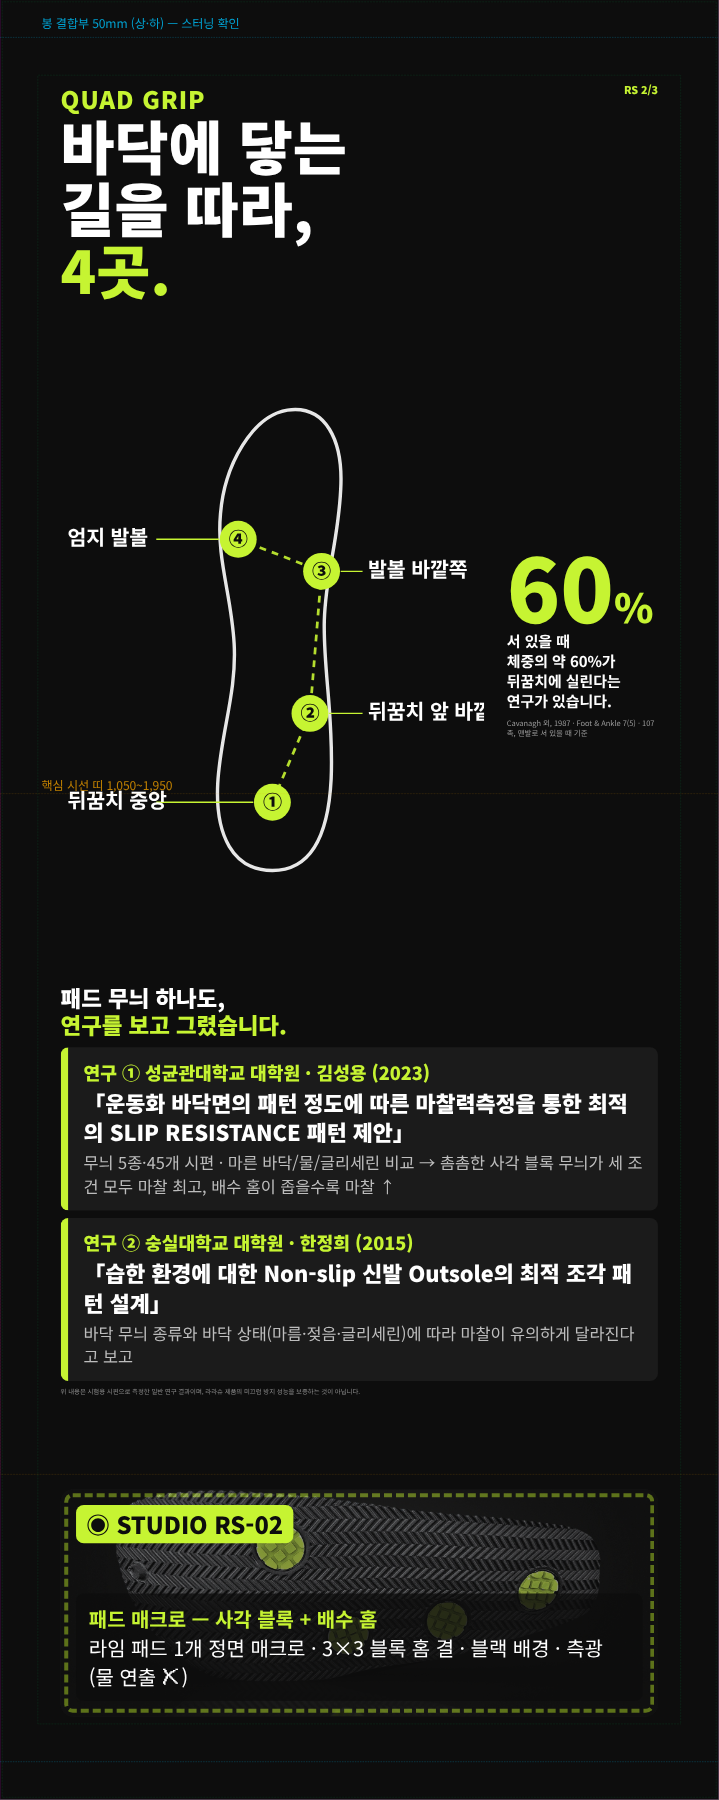
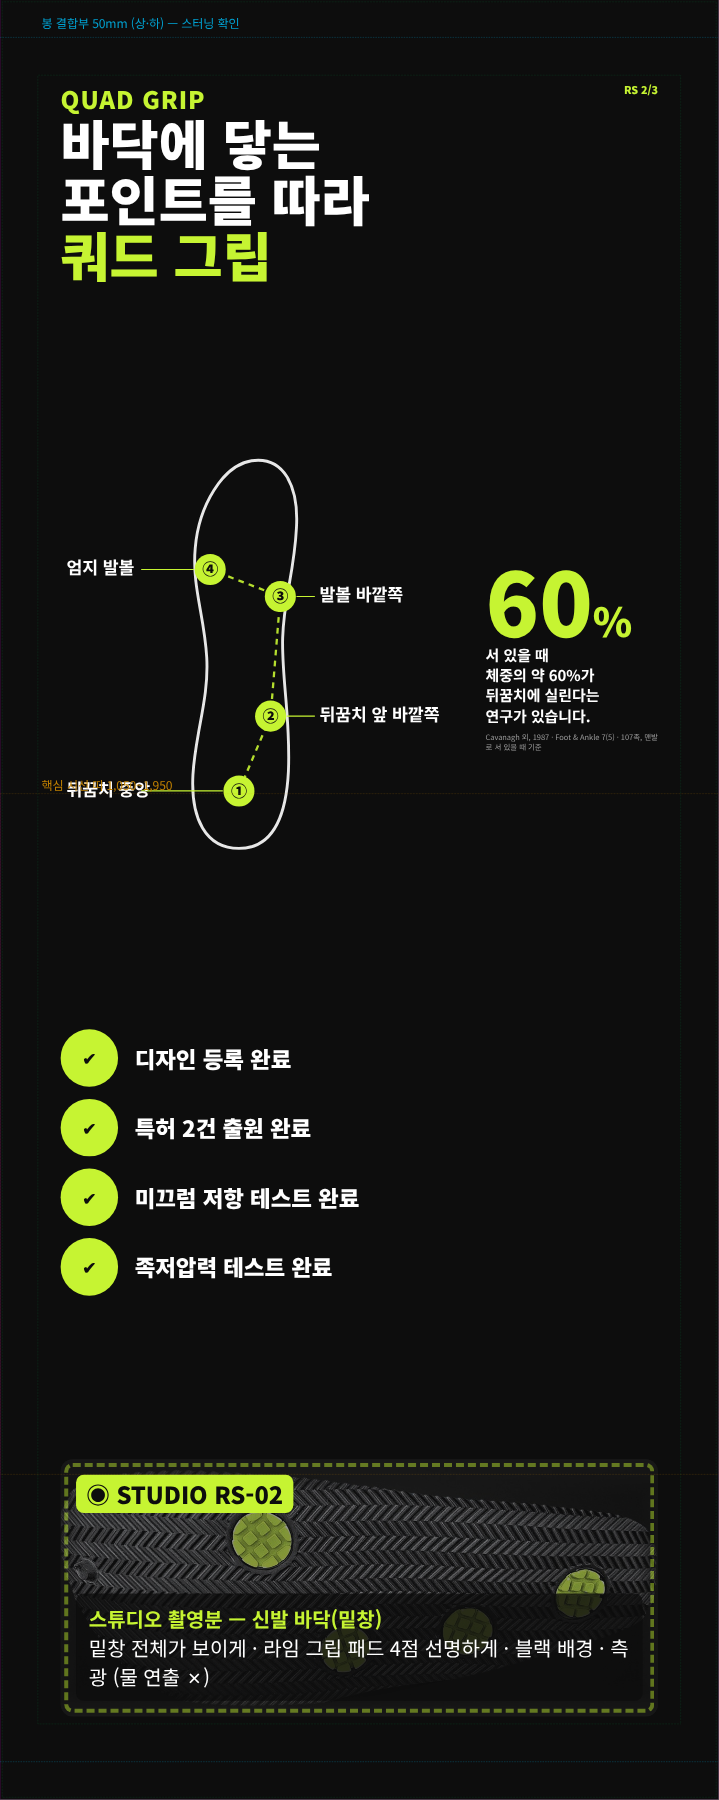
족자 RS2: 헤드라인·인증 체크리스트·밑창 촬영 안내, 발 배치도 라벨 잘림 수정
Claude-Session: https://claude.ai/code/session_01WbwBaiEPCZ7zKuMjGg7vqH

diff --git a/launch/rs/design/fair-print/build.py b/launch/rs/design/fair-print/build.py
@@ -599,8 +599,8 @@ def foot_map(wmm, acc=LIME, ink='#fff', labels=True, fs=1.0):
             lx = 290 if x > 150 else -150
             anc = 'start' if x > 150 else 'start'
             lab += f'<line x1="{x+(28 if x>150 else -28)}" y1="{y}" x2="{lx-8 if x>150 else lx+130}" y2="{y}" stroke="{acc}" stroke-width="2"/><text x="{lx}" y="{y+8}" font-size="30" font-weight="700" fill="{ink}" text-anchor="{anc}">{t}</text>'
-    vb = '-160 0 620 730' if labels else '40 0 240 730'
-    hmm = wmm * 730 / (620 if labels else 240)
+    vb = '-160 0 710 730' if labels else '40 0 240 730'
+    hmm = wmm * 730 / (710 if labels else 240)
     return f"""<svg viewBox="{vb}" style="width:{wmm}mm;height:{hmm}mm;flex:none;font-family:N"><path d="{sole}" fill="none" stroke="{ink}" stroke-width="5" opacity=".9"/>
       <path d="M{path}" fill="none" stroke="{acc}" stroke-width="4" stroke-dasharray="10 9" opacity=".9"/>{dots}{lab}</svg>"""
 
@@ -640,15 +640,13 @@ def banners_v4():
         {shot('RS-01', 790, 1000, 'walking-side-ref.jpg', '스튜디오 촬영분 — 모델 착용 · 신발 측면', '모델이 워킹화를 신고 선 모습 · 신발 측면(발목~밑창 라인)이 잘 보이게 · 블랙 바지 · 주방/매장 바닥 톤 (물기 연출 ✗)', fs=F)}
         <div style="display:flex;justify-content:space-between;align-items:flex-end"><div style="font-size:70pt;font-weight:900;color:#fff">쿼드그립<br>워킹화 · 아치가득 인솔</div><div style="font-size:50pt;font-weight:900;color:{LIME};text-align:right">인솔 11.11<br>워킹화 11.20 OPEN</div></div>""", 'RS 1/3', LIME)
     rs2 = pg(INK, f"""<div><div style="font-size:90pt;font-weight:900;color:{LIME};letter-spacing:.04em">QUAD GRIP</div>
-          <div style="font-size:220pt;font-weight:900;line-height:1.05;color:#fff">바닥에 닿는<br>길을 따라,<br><span style="color:{LIME}">4곳.</span></div></div>
-        <div style="display:flex;align-items:center;gap:30mm">{foot_map(560, fs=F)}
+          <div style="font-size:200pt;font-weight:900;line-height:1.05;color:#fff">바닥에 닿는<br>포인트를 따라<br><span style="color:{LIME}">쿼드 그립</span></div></div>
+        <div style="display:flex;align-items:center;gap:22mm">{foot_map(540, fs=F)}
           <div style="flex:1"><div style="font-size:330pt;font-weight:900;line-height:.9;color:{LIME}">60<span style="font-size:150pt">%</span></div>
           <div style="font-size:56pt;font-weight:700;color:#fff;line-height:1.35;margin-top:8mm">서 있을 때<br>체중의 약 60%가<br>뒤꿈치에 실린다는<br>연구가 있습니다.</div>
           <div style="font-size:28pt;color:#9a9a9a;margin-top:8mm;line-height:1.4">{CAV_NOTE}</div></div></div>
-        <div><div style="font-size:84pt;font-weight:900;color:#fff;line-height:1.2;margin-bottom:12mm">패드 무늬 하나도,<br><span style="color:{LIME}">연구를 보고 그렸습니다.</span></div>
-          <div style="display:flex;flex-direction:column;gap:10mm">{paper_cards(F, LIME)}</div>
-          <div style="font-size:24pt;color:#8a8a8a;margin-top:8mm;line-height:1.4">{PAPER_NOTE}</div></div>
-        {shot('RS-02', 790, 300, 'outsole-studio.jpg', '패드 매크로 — 사각 블록 + 배수 홈', '라임 패드 1개 정면 매크로 · 3×3 블록 홈 결 · 블랙 배경 · 측광 (물 연출 ✗)', fs=F)}""", 'RS 2/3', LIME)
+        <div style="display:flex;flex-direction:column;gap:16mm"><div style="display:flex;align-items:center;gap:22mm"><div style="width:76mm;height:76mm;border-radius:50%;background:{LIME};display:grid;place-items:center;font-size:64pt;font-weight:900;color:{INK};flex:none">✔</div><div style="font-size:84pt;font-weight:900;color:#fff">디자인 등록 완료</div></div><div style="display:flex;align-items:center;gap:22mm"><div style="width:76mm;height:76mm;border-radius:50%;background:{LIME};display:grid;place-items:center;font-size:64pt;font-weight:900;color:{INK};flex:none">✔</div><div style="font-size:84pt;font-weight:900;color:#fff">특허 2건 출원 완료</div></div><div style="display:flex;align-items:center;gap:22mm"><div style="width:76mm;height:76mm;border-radius:50%;background:{LIME};display:grid;place-items:center;font-size:64pt;font-weight:900;color:{INK};flex:none">✔</div><div style="font-size:84pt;font-weight:900;color:#fff">미끄럼 저항 테스트 완료</div></div><div style="display:flex;align-items:center;gap:22mm"><div style="width:76mm;height:76mm;border-radius:50%;background:{LIME};display:grid;place-items:center;font-size:64pt;font-weight:900;color:{INK};flex:none">✔</div><div style="font-size:84pt;font-weight:900;color:#fff">족저압력 테스트 완료</div></div></div>
+        {shot('RS-02', 790, 340, 'outsole-lime.jpg', '스튜디오 촬영분 — 신발 바닥(밑창)', '밑창 전체가 보이게 · 라임 그립 패드 4점 선명하게 · 블랙 배경 · 측광 (물 연출 ✗)', fs=F)}""", 'RS 2/3', LIME)
     rs3 = pg(LIME, f"""<div><div style="font-size:90pt;font-weight:900;color:{INK};letter-spacing:.04em">ARCH INSOLE</div>
           <div style="font-size:230pt;font-weight:900;line-height:1.05;color:{INK}">오후 4시,<br>발이 먼저<br>퇴근하고<br>싶을 때.</div>
           <div style="font-size:70pt;font-weight:700;color:{INK};margin-top:16mm">신던 신발 속 바닥만 바꿔 보세요.</div></div>

diff --git a/launch/rs/design/fair-print/shot-list-v4.md b/launch/rs/design/fair-print/shot-list-v4.md
@@ -16,7 +16,7 @@
 | X2-A | 욕실 선반 라이프컷 | 양치컵(40°) + 칫솔 + 치실 + 스마일 욕실화 한 프레임 | cup-life.jpg |
 | X3-A | 원장님 상반신 (10/28 촬영 D4) | 흰 가운 · 회색 배경 · 손에 워킹화 밑창을 들고 라임 4점을 가리키는 포즈 · 정면 미소 | — |
 | RS-01 | 스튜디오 촬영분 — 모델 착용 · 신발 측면 | 모델이 워킹화를 신고 선 모습 · 신발 측면(발목~밑창 라인)이 잘 보이게 · 블랙 바지 · 주방/매장 바닥 톤 (물기 연출 ✗) | walking-side-ref.jpg |
-| RS-02 | 패드 매크로 — 사각 블록 + 배수 홈 | 라임 패드 1개 정면 매크로 · 3×3 블록 홈 결 · 블랙 배경 · 측광 (물 연출 ✗) | outsole-studio.jpg |
+| RS-02 | 스튜디오 촬영분 — 신발 바닥(밑창) | 밑창 전체가 보이게 · 라임 그립 패드 4점 선명하게 · 블랙 배경 · 측광 (물 연출 ✗) | outsole-lime.jpg |
 | RS-03 | 인솔 — 벽시계 4시 + 신발 벗는 발 / 인솔 단독 | ① 주방 벽시계 4:00 앞에서 신발 뒤축 빼는 발 (스토리컷)  ② 그레이·모카무스 인솔 M·L 나란히 45° 탑뷰 | insole-cut.png |
 | RF-01 | 라이프 — 욕실 선반 한 컷에 브랜드 전체 | 화이트 타일 욕실 선반 · 양치컵(40° 기울여 세움) + 칫솔 + 치실 + 바닥에 스마일 욕실화 · 아침 햇빛 | cup-life.jpg |
 | RF-02 | 양치컵 40° — 기울여 세워 말리는 장면 | 흰 배경 · 양치컵이 40°로 기대 서 있는 측면 · 컵 안 물방울이 흘러내리는 순간 · 칫솔 2개 꽂은 버전 1컷 추가 | cup-tilt.jpg |
